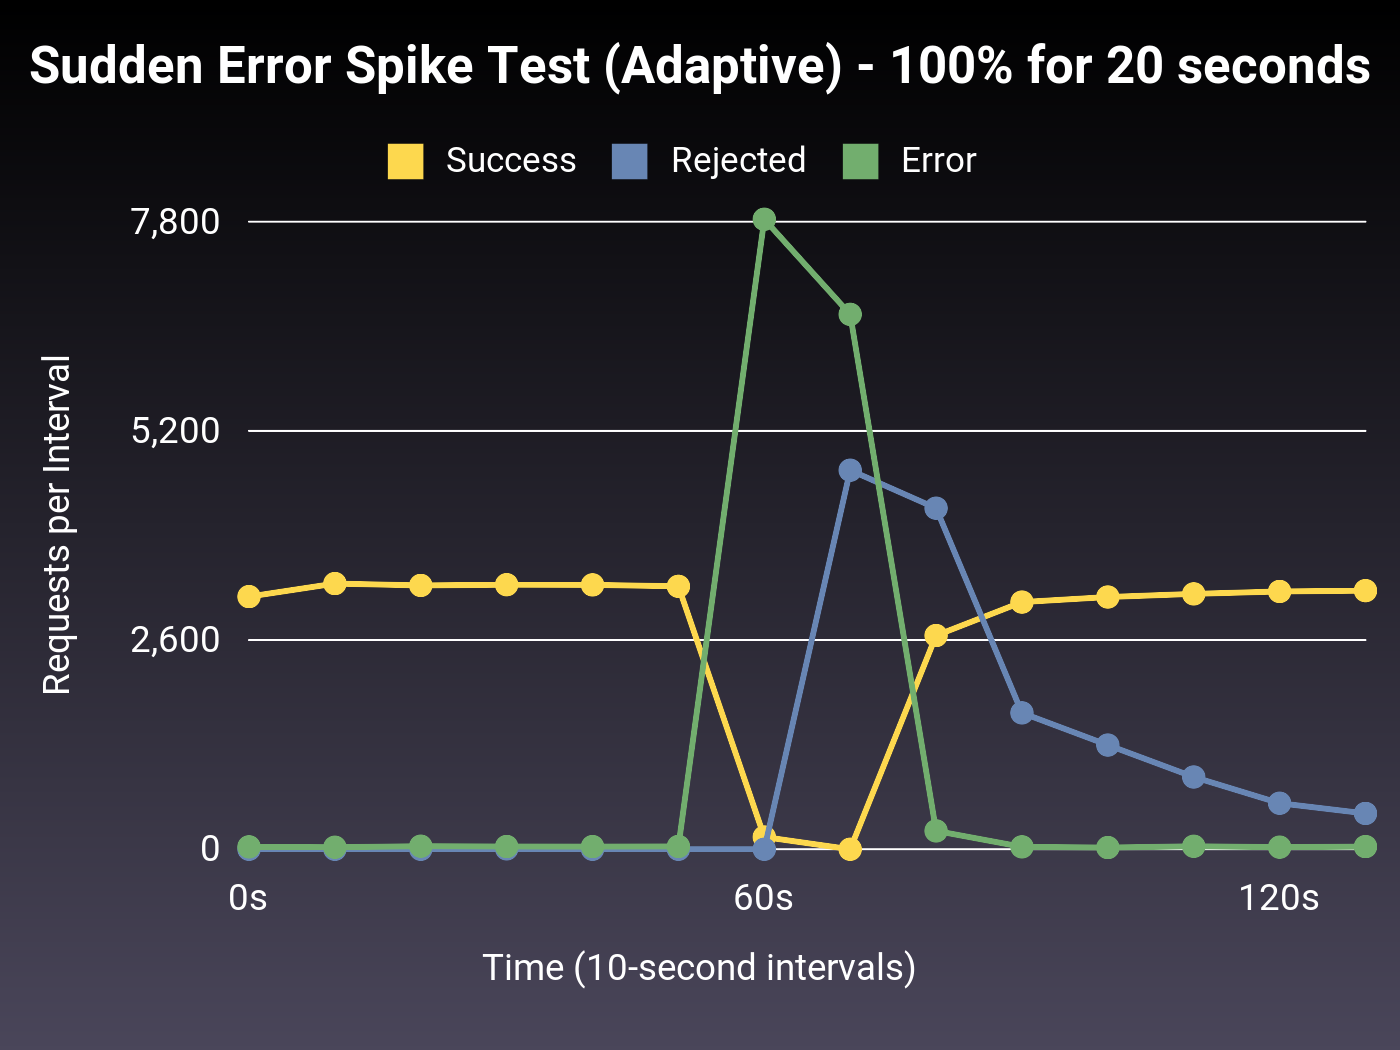
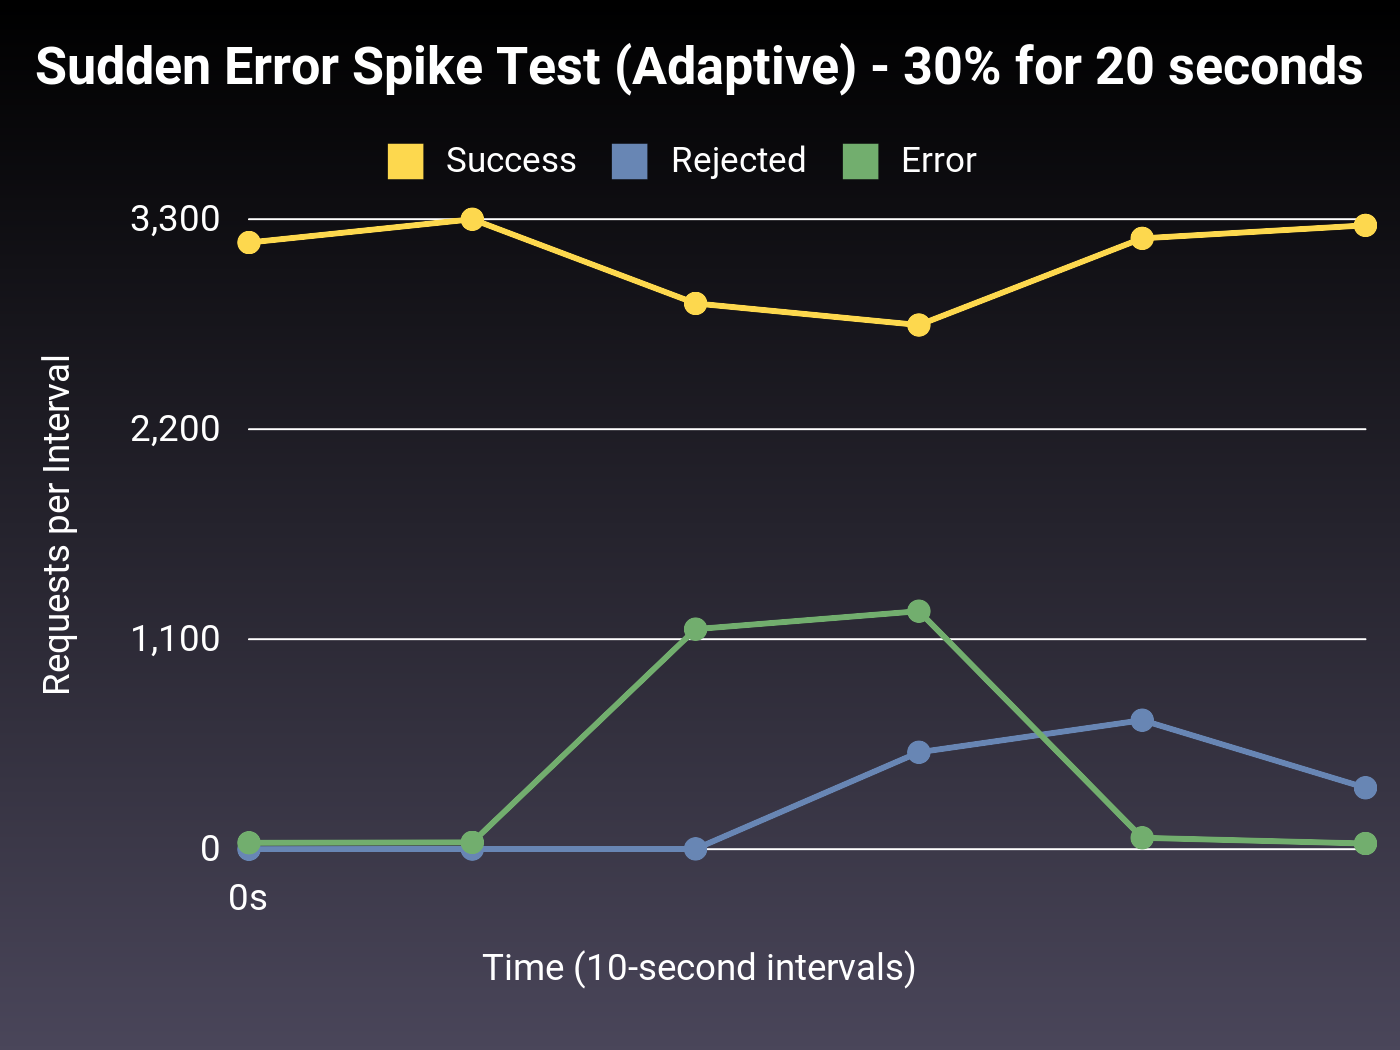
graph total time spent in requests for each bucket

diff --git a/experiments/test_helpers.rb b/experiments/test_helpers.rb
@@ -104,7 +104,7 @@ module Semian
             )
 
             # Initialize timing for this thread
-            @thread_timings[thread_id] = { total_time: 0.0, request_count: 0 }
+            @thread_timings[thread_id] = { total_time: 0.0, request_count: 0, samples: [] }
 
             sleep_interval = 1.0 / @requests_per_second_per_thread
             until @done
@@ -146,8 +146,10 @@ module Semian
                 end
               ensure
                 request_duration = Time.now - request_start
+                timestamp = Time.now.to_i
                 @thread_timings[thread_id][:total_time] += request_duration
                 @thread_timings[thread_id][:request_count] += 1
+                @thread_timings[thread_id][:samples] << { duration: request_duration, timestamp: timestamp }
               end
             end
           end
@@ -340,13 +342,6 @@ module Semian
         puts "\nGenerating visualization..."
         require "gruff"
 
-        graph = Gruff::Line.new(1400)
-        graph.title = @graph_title
-        graph.x_axis_label = "Time (10-second intervals)"
-        graph.y_axis_label = "Requests per Interval"
-        graph.hide_dots = false
-        graph.line_width = 3
-
         # Aggregate data into 10-second buckets for detailed visualization
         small_bucket_size = 10
         num_small_buckets = (@test_duration / small_bucket_size.to_f).ceil
@@ -354,12 +349,22 @@ module Semian
         bucketed_data = []
         (0...num_small_buckets).each do |bucket_idx|
           bucket_start = @outcomes.keys[0] + (bucket_idx * small_bucket_size)
-          bucket_data = @outcomes.select { |time, _| time >= bucket_start && time < bucket_start + small_bucket_size }
+          bucket_end = bucket_start + small_bucket_size
+          bucket_data = @outcomes.select { |time, _| time >= bucket_start && time < bucket_end }
+
+          # Calculate sum of request durations from all samples in this bucket
+          bucket_samples = []
+          @thread_timings.each_value do |thread_data|
+            bucket_samples.concat(thread_data[:samples].select { |s| s[:timestamp] >= bucket_start && s[:timestamp] < bucket_end })
+          end
+
+          sum_request_duration = bucket_samples.sum { |s| s[:duration] }
 
           bucketed_data << {
             success: bucket_data.values.sum { |d| d[:success] },
             circuit_open: bucket_data.values.sum { |d| d[:circuit_open] },
             error: bucket_data.values.sum { |d| d[:error] },
+            sum_request_duration: sum_request_duration,
           }
         end
 
@@ -369,6 +374,14 @@ module Semian
           time_sec = i * small_bucket_size
           labels[i] = "#{time_sec}s" if time_sec % @x_axis_label_interval == 0
         end
+
+        # Generate main graph (requests)
+        graph = Gruff::Line.new(1400)
+        graph.title = @graph_title
+        graph.x_axis_label = "Time (10-second intervals)"
+        graph.y_axis_label = "Requests per Interval"
+        graph.hide_dots = false
+        graph.line_width = 3
         graph.labels = labels
 
         graph.data("Success", bucketed_data.map { |d| d[:success] })
@@ -377,6 +390,21 @@ module Semian
 
         graph.write(@graph_filename)
         puts "Graph saved to #{@graph_filename}"
+
+        # Generate duration graph
+        duration_graph = Gruff::Line.new(1400)
+        duration_graph.title = "#{@graph_title} - Total Request Duration"
+        duration_graph.x_axis_label = "Time (10-second intervals)"
+        duration_graph.y_axis_label = "Total Request Duration (seconds)"
+        duration_graph.hide_dots = false
+        duration_graph.line_width = 3
+        duration_graph.labels = labels
+
+        duration_graph.data("Total Request Duration", bucketed_data.map { |d| d[:sum_request_duration] })
+
+        duration_filename = @graph_filename.sub(%r{([^/]+)$}, 'duration-\1')
+        duration_graph.write(duration_filename)
+        puts "Duration graph saved to #{duration_filename}"
       end
     end
   end

diff --git a/experiments/test_error_spike_100_adaptive.rb b/experiments/test_error_spike_100_adaptive.rb
@@ -11,13 +11,13 @@ require_relative "test_helpers"
 runner = Semian::Experiments::CircuitBreakerTestRunner.new(
   test_name: "Sudden Error Spike Test (Adaptive) - 100% for 20 seconds",
   resource_name: "protected_service_sudden_error_spike_100_adaptive",
-  error_phases: [0.01] * 3 + [1.00] + [0.01] * 3,
+  error_phases: [0.01] + [0.30] + [0.01],
   phase_duration: 20,
   semian_config: {
     adaptive_circuit_breaker: true,
     bulkhead: false,
   },
-  graph_title: "Sudden Error Spike Test (Adaptive) - 100% for 20 seconds",
+  graph_title: "Sudden Error Spike Test (Adaptive) - 30% for 20 seconds",
   graph_filename: "sudden_error_spike_100_adaptive.png",
   x_axis_label_interval: 60,
 )
